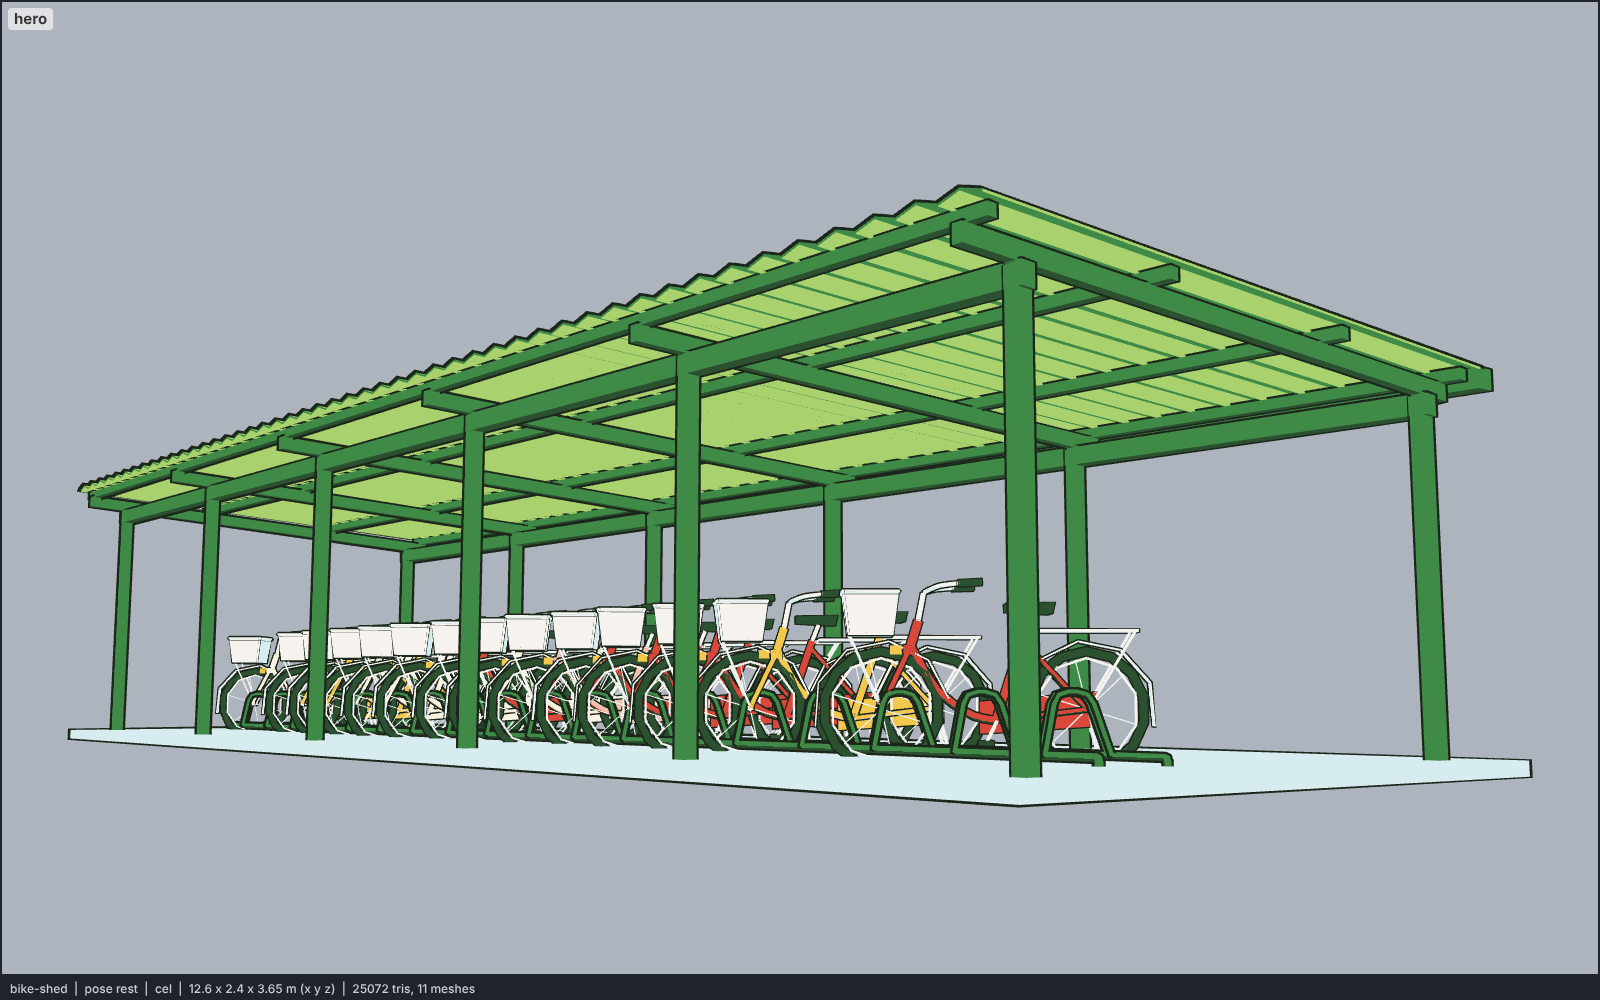
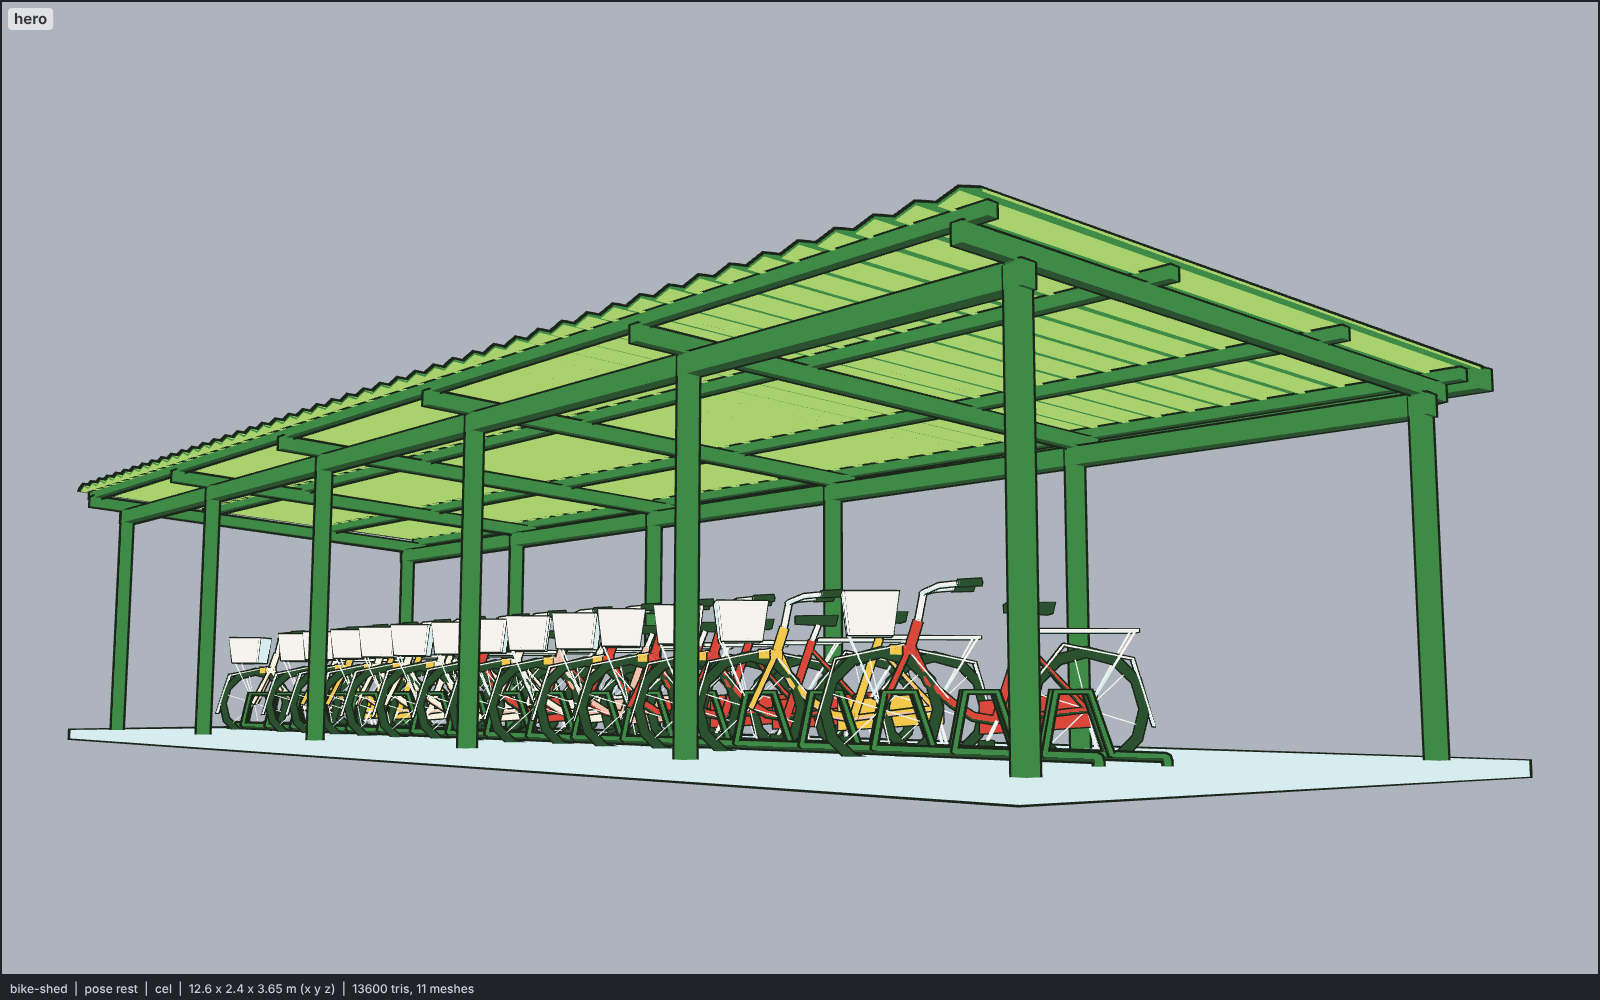
models: bike-shed, cut defaults to 13.6k triangles
About 750 triangles a bike: 12 x 4 tyres, no rims or hubs, 4-5 sided
tubes without bends, paired stays and struts as one V tube, a basket
without the rim tube, 3-segment mudguards, straight rack hoops.

Claude-Session: https://claude.ai/code/session_01RarBCdt4E1fNHHaUKaW5GL

Changed region(s): [[0.125, 0.589, 0.7188, 0.744], [0.2188, 0.961, 0.2812, 1.0], [0.3125, 0.589, 0.4062, 0.62]]

diff --git a/models/bike-shed.js b/models/bike-shed.js
@@ -15,11 +15,11 @@
 //          at 0.62 m and the front-left camera sees the bikes' left sides): two low steel rails along X and a pair of
 //          hoop guides per slot straddling the front wheel; empty slots show their hoops.
 //   BIKE   bike(): one mamachari, local frame (faces +Z, centred on its own x = z = 0, wheels on y = 0). 26" wheels
-//          (dark tori with a thin rim and hub), a step-through frame (one curved down tube from the head tube to the
+//          (dark 12 x 4 tori crossed by three spoke lines), a step-through frame (one curved down tube from the head tube to the
 //          bottom bracket, seat tube, chain and seat stays, fork), upright swept-back handlebar on a tall stem, a wide
-//          saddle, a wire front basket over the front wheel (a tapered open box with a wire rim), a flat rear rack,
+//          saddle, a wire front basket over the front wheel (a tapered open box), a flat rear rack,
 //          two mudguards (arc bands), a chain case on the -X side, a centre kickstand down behind the rear wheel,
-//          crank and pedals, a small yellow dynamo lamp. Rims, spokes, struts and the stand carry no hull (too thin).
+//          crank and pedals, a small yellow dynamo lamp. Spokes, struts and the stand carry no hull (too thin).
 //          Bikes stand in slots 0.62 m apart; a hash of the slot index (sin hash, no Math.random) picks which slots
 //          stay empty, the frame colour and a small extra yaw (+-4 deg) and shift, so the row is varied but the same
 //          every build.
@@ -32,7 +32,7 @@
 //   height  scales everything uniformly so the front eave top is `height` (default 2.40 m).
 //   length  shed length in metres (default 12; bays of about 2.4 m are recomputed, at least 2 m).
 //   bikes   how many bikes are parked (default: about 80 % of the slots, 14 of 18); clamped to the slot count.
-// Budget: 25.1k triangles in 11 meshes at defaults (about 1.45k a bike, the shed and rack 4.8k); 18 m / 40 bikes 48k.
+// Budget: 13.6k triangles in 11 meshes at defaults (about 750 a bike: 4-5 sided tubes, no bends; the shed and rack 3.1k).
 //   Ink: shed 2.5-3.5 px, bike parts 1.5 px, so a bike seen 40 px tall keeps its colour.
 // Colours (meadow, as models/school.js), base / shade:
 //   pad                    sky #d7ecef / skin #f0c2ae, threshold 0.1
@@ -192,11 +192,9 @@ export function build(THREE, kit, colors = meta.colors, opts = {}) {
   // ---------- the bicycle (local: faces +Z, wheels on y = 0, centred on x = z = 0) ----------
   const WR = 0.33, ZF = 0.55, ZR = -0.55;
   function bike(frame) {
-    // wheels: tyre, thin rim, hub, three spoke lines
+    // wheels: tyre and three crossed spoke lines (no rim or hub: the spokes' crossing is the hub at any size)
     for (const zc of [ZF, ZR]) {
-      torus("rubber", WR, zc, WR - 0.024, 0.024, { segs: 14, sx: 1.05 });
-      torus("chromeThin", WR, zc, WR - 0.06, 0.009, { segs: 10, sides: 3 });
-      tube("chrome", [[-0.05, WR, zc], [0.05, WR, zc]], 0.018, [0, 1, 0], { sides: 6 });
+      torus("rubber", WR, zc, WR - 0.026, 0.026, { segs: 12, sides: 4, sx: 1.05 });
       for (let k = 0; k < 3; k++) {
         const a = (k / 3) * Math.PI + 0.3;
         const d = [0, Math.sin(a) * (WR - 0.06), Math.cos(a) * (WR - 0.06)];
@@ -206,14 +204,13 @@ export function build(THREE, kit, colors = meta.colors, opts = {}) {
     // frame: head tube, step-through down tube, seat tube, stays, fork
     const FT = 0.022;
     const headLo = [0, 0.64, 0.4], headHi = [0, 0.8, 0.35], bb = [0, 0.27, -0.06], seatTop = [0, 0.74, -0.22];
-    tube(frame, [headLo, headHi], 0.026, [1, 0, 0]);
-    tube(frame, [add(headLo, [0, 0.03, -0.01]), [0, 0.42, 0.26], [0, 0.29, 0.06], bb], FT, [1, 0, 0], { bend: 0.12 });
-    tube(frame, [bb, seatTop], FT, [1, 0, 0]);
-    for (const s of [-1, 1]) {
-      tube(frame, [[s * 0.012, 0.27, -0.06], [s * 0.05, WR, ZR]], 0.013, [1, 0, 0]);
-      tube(frame, [[s * 0.012, 0.7, -0.205], [s * 0.05, WR + 0.01, ZR + 0.02]], 0.012, [1, 0, 0]);
-      tube(frame, [[s * 0.035, 0.66, 0.395], [s * 0.05, WR + 0.03, ZF - 0.01], [s * 0.05, WR, ZF]], 0.014, [1, 0, 0], { bend: 0.04 });
-    }
+    tube(frame, [headLo, headHi], 0.026, [1, 0, 0], { sides: 5 });
+    tube(frame, [add(headLo, [0, 0.03, -0.01]), [0, 0.47, 0.3], [0, 0.36, 0.17], [0, 0.29, 0.06], bb], FT, [1, 0, 0], { bend: 0, sides: 5 });
+    tube(frame, [bb, seatTop], FT, [1, 0, 0], { sides: 5 });
+    // stays and fork: one tube per pair, a V through the hub's axis line
+    tube(frame, [[0.05, WR, ZR], [0, 0.27, -0.06], [-0.05, WR, ZR]], 0.013, [0, 1, 0], { bend: 0, sides: 4 });
+    tube(frame, [[0.05, WR + 0.01, ZR + 0.02], [0, 0.7, -0.205], [-0.05, WR + 0.01, ZR + 0.02]], 0.012, [0, 0, 1], { bend: 0, sides: 4 });
+    for (const s of [-1, 1]) tube(frame, [[s * 0.035, 0.66, 0.395], [s * 0.05, WR, ZF]], 0.014, [1, 0, 0], { sides: 4 });
     box(frame, -0.05, 0.05, 0.62, 0.67, 0.37, 0.43); // fork crown
     // chain case on the -X side, from the bottom bracket to the rear hub
     hex(frame, [[-0.06, 0.2, 0.02], [-0.06, 0.37, 0.02], [-0.06, 0.42, ZR - 0.06], [-0.06, 0.24, ZR - 0.06],
@@ -224,36 +221,30 @@ export function build(THREE, kit, colors = meta.colors, opts = {}) {
     box("rubber", 0.07, 0.17, 0.135, 0.165, -0.03, 0.04);
     box("rubber", -0.17, -0.07, 0.375, 0.405, -0.155, -0.085);
     // seat post and the wide saddle
-    tube("chrome", [seatTop, [0, 0.84, -0.26]], 0.014, [1, 0, 0]);
+    tube("chrome", [seatTop, [0, 0.84, -0.26]], 0.014, [1, 0, 0], { sides: 4 });
     hex("rubber", [[-0.11, 0.84, -0.36], [0.11, 0.84, -0.36], [0.06, 0.85, -0.12], [-0.06, 0.85, -0.12],
       [-0.12, 0.895, -0.37], [0.12, 0.895, -0.37], [0.065, 0.89, -0.12], [-0.065, 0.89, -0.12]]);
     // stem and the upright swept-back handlebar, grips
-    tube("chrome", [headHi, [0, 0.95, 0.32]], 0.016, [1, 0, 0]);
-    tube("chrome", [[-0.2, 0.99, 0.14], [-0.17, 0.98, 0.25], [0, 0.95, 0.33], [0.17, 0.98, 0.25], [0.2, 0.99, 0.14]], 0.012, [0, 1, 0], { bend: 0.08, sides: 5 });
-    for (const s of [-1, 1]) tube("rubber", [[s * 0.205, 0.99, 0.15], [s * 0.235, 0.995, 0.03]], 0.018, [0, 1, 0]);
-    // front basket: an open wire box over the front wheel, on two struts to the hub
+    tube("chrome", [headHi, [0, 0.95, 0.32]], 0.016, [1, 0, 0], { sides: 4 });
+    tube("chrome", [[-0.2, 0.99, 0.14], [-0.17, 0.98, 0.25], [0, 0.95, 0.33], [0.17, 0.98, 0.25], [0.2, 0.99, 0.14]], 0.012, [0, 1, 0], { bend: 0, sides: 4 });
+    for (const s of [-1, 1]) tube("rubber", [[s * 0.205, 0.99, 0.15], [s * 0.235, 0.995, 0.03]], 0.018, [0, 1, 0], { sides: 4 });
+    // front basket: a tapered open box over the front wheel (four walls and a floor, the hull draws its rim)
     {
-      // tapered: the bottom 3 cm in from the top on every side; walls 8 mm thick, a wire rim round the top
       const x = 0.18, z0 = 0.46, z1 = 0.76, y0 = 0.72, y1 = 0.95, t = 0.008, k = 0.03, cz = (z0 + z1) / 2;
-      const cn = (sx, sz, y, ins) => { const tp = y === y1; const q = tp ? 0 : k; return [sx * (x - q - ins), y, cz + sz * ((z1 - z0) / 2 - q - ins)]; };
+      const cn = (sx, sz, y, ins) => { const q = y === y1 ? 0 : k; return [sx * (x - q - ins), y, cz + sz * ((z1 - z0) / 2 - q - ins)]; };
       box("chrome", -x + k, x - k, y0, y0 + t, z0 + k, z1 - k);
       for (const [a, b] of [[[1, 1], [-1, 1]], [[-1, 1], [-1, -1]], [[-1, -1], [1, -1]], [[1, -1], [1, 1]]])
         hex("chrome", [cn(...a, y0, 0), cn(...b, y0, 0), cn(...b, y0, t), cn(...a, y0, t), cn(...a, y1, 0), cn(...b, y1, 0), cn(...b, y1, t), cn(...a, y1, t)]);
-      tube("chrome", [[x, y1, z1], [-x, y1, z1], [-x, y1, z0], [x, y1, z0], [x, y1, z1], [-x * 0.9, y1, z1]], 0.009, [0, 1, 0], { bend: 0, sides: 4 });
-      for (const s of [-1, 1]) tube("chromeThin", [[s * 0.05, WR, ZF], [s * 0.1, y0, z1 - 0.04]], 0.007, [1, 0, 0], { sides: 4 });
+      tube("chromeThin", [[0.1, y0, z1 - 0.04], [0, WR, ZF], [-0.1, y0, z1 - 0.04]], 0.007, [0, 0, 1], { bend: 0, sides: 3 });
     }
-    // rear rack: a flat frame over the rear wheel, struts to the hub
-    {
-      const y = 0.74;
-      box("chrome", -0.08, 0.08, y, y + 0.014, -0.82, -0.26);
-      for (const s of [-1, 1]) tube("chromeThin", [[s * 0.075, y, -0.8], [s * 0.05, WR, ZR]], 0.008, [1, 0, 0], { sides: 4 });
-      tube("chromeThin", [[0, y, -0.26], [0, 0.72, -0.2]], 0.008, [1, 0, 0], { sides: 4 });
-    }
+    // rear rack: a flat plate over the rear wheel, a V strut to the hub
+    box("chrome", -0.08, 0.08, 0.74, 0.754, -0.82, -0.26);
+    tube("chromeThin", [[0.075, 0.74, -0.8], [0, WR, ZR], [-0.075, 0.74, -0.8]], 0.008, [0, 0, 1], { bend: 0, sides: 3 });
     // mudguards: arc bands over both wheels
-    arcBand("chrome", WR, ZF, WR + 0.03, -0.25, Math.PI * 0.95, 0.06, 0.008, 5);
-    arcBand("chrome", WR, ZR, WR + 0.03, 0.15, Math.PI + 0.25, 0.06, 0.008, 5);
+    arcBand("chrome", WR, ZF, WR + 0.03, -0.25, Math.PI * 0.95, 0.06, 0.008, 3);
+    arcBand("chrome", WR, ZR, WR + 0.03, 0.15, Math.PI + 0.25, 0.06, 0.008, 3);
     // centre kickstand (down): a U from the rear hub to the floor behind the wheel
-    tube("chromeThin", [[0.06, WR, ZR], [0.085, 0.012, ZR - 0.09], [-0.085, 0.012, ZR - 0.09], [-0.06, WR, ZR]], 0.012, [0, 0, 1], { bend: 0.02, sides: 4 });
+    tube("chromeThin", [[0.06, WR, ZR], [0.085, 0.012, ZR - 0.09], [-0.085, 0.012, ZR - 0.09], [-0.06, WR, ZR]], 0.012, [0, 0, 1], { bend: 0, sides: 3 });
     // dynamo lamp on the fork
     box("yellow", -0.03, 0.03, 0.62, 0.67, 0.44, 0.5);
   }
@@ -321,7 +312,7 @@ export function build(THREE, kit, colors = meta.colors, opts = {}) {
     const x = sx0 + i * pitch;
     place(x, zBike, Y0, () => {
       for (const s of [-1, 1]) // a hoop guide either side of the front wheel
-        tube("steel", [[s * 0.045, 0.12, hz0], [s * 0.045, 0.42, hz0 + 0.1], [s * 0.045, 0.42, hz1 - 0.06], [s * 0.045, 0.12, hz1]], 0.012, [1, 0, 0], { bend: 0.06, sides: 5 });
+        tube("steel", [[s * 0.045, 0.12, hz0], [s * 0.045, 0.42, hz0 + 0.1], [s * 0.045, 0.42, hz1 - 0.06], [s * 0.045, 0.12, hz1]], 0.012, [1, 0, 0], { bend: 0, sides: 4 });
     });
     if (empty.has(i)) continue;
     const yaw = Y0 + (hash(i, 2) - 0.5) * 0.14, dx = (hash(i, 3) - 0.5) * 0.04, dz = (hash(i, 4) - 0.5) * 0.06;
